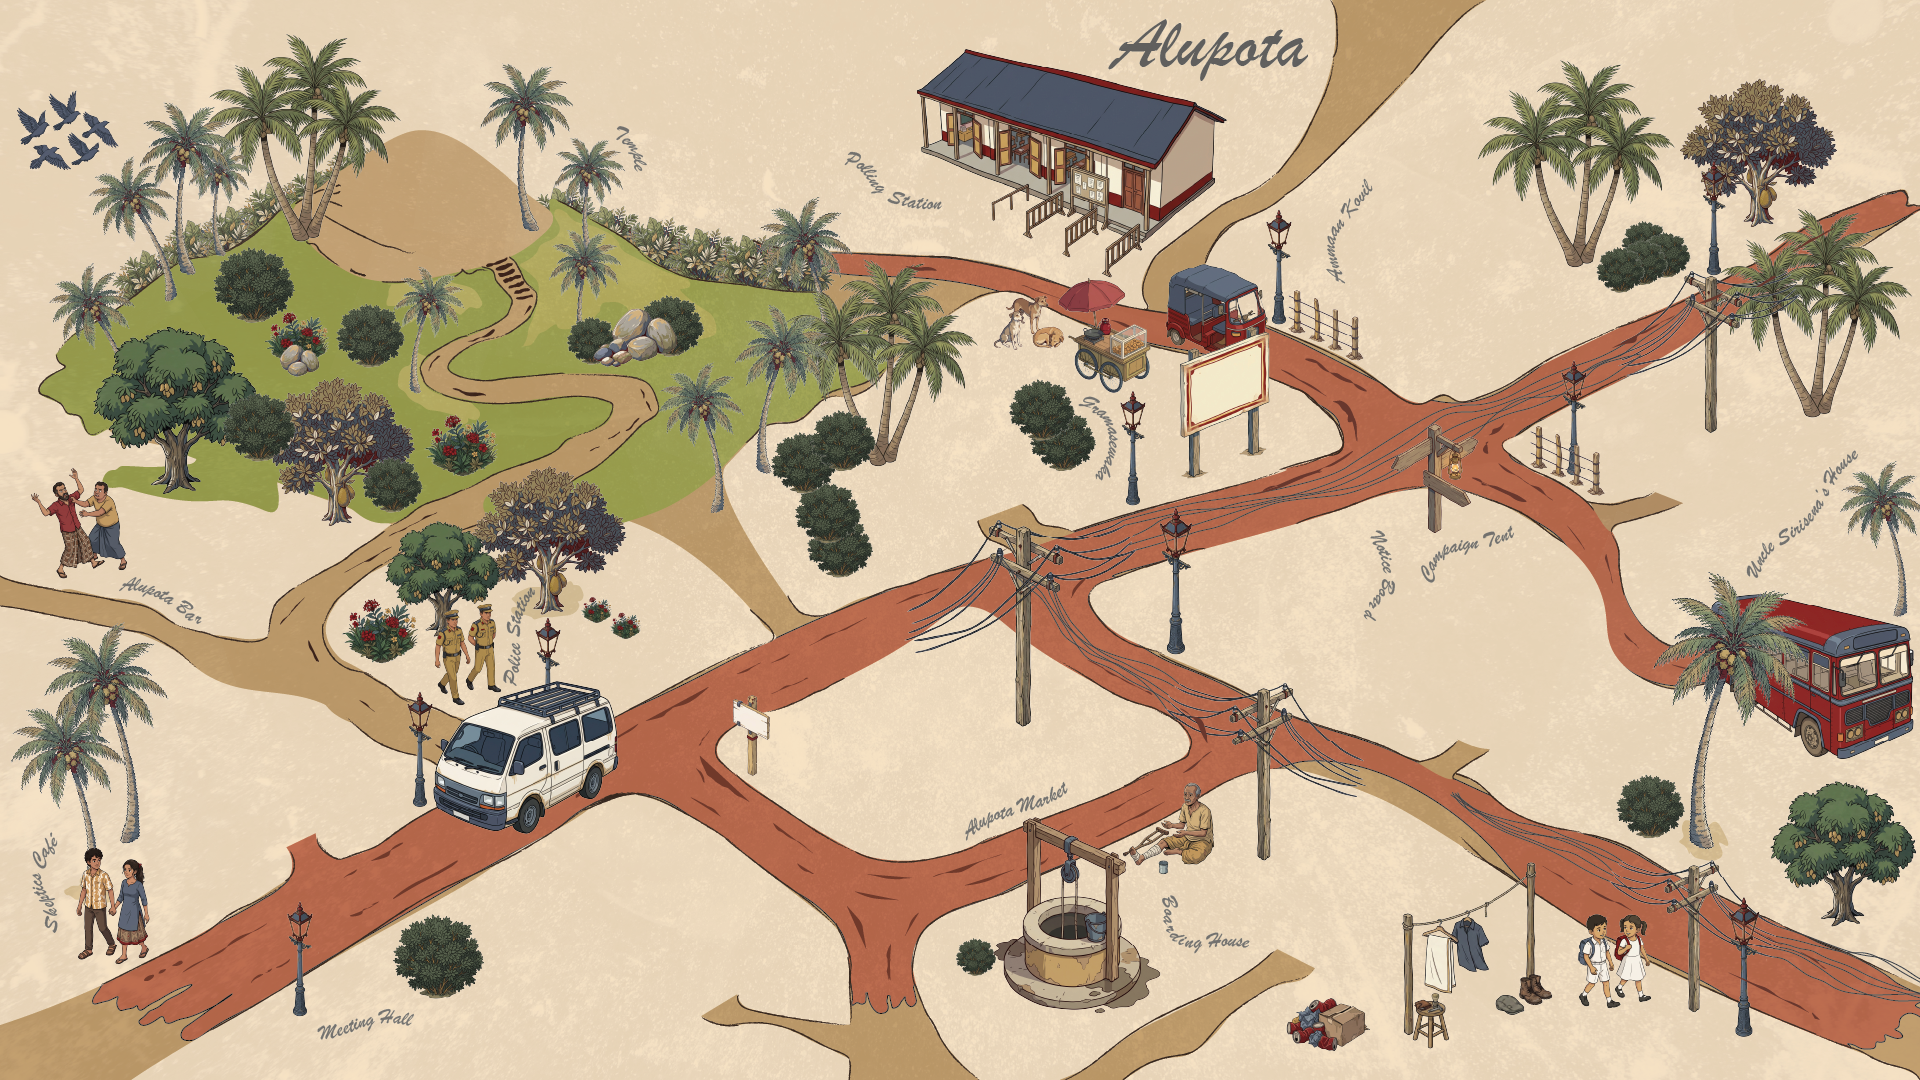
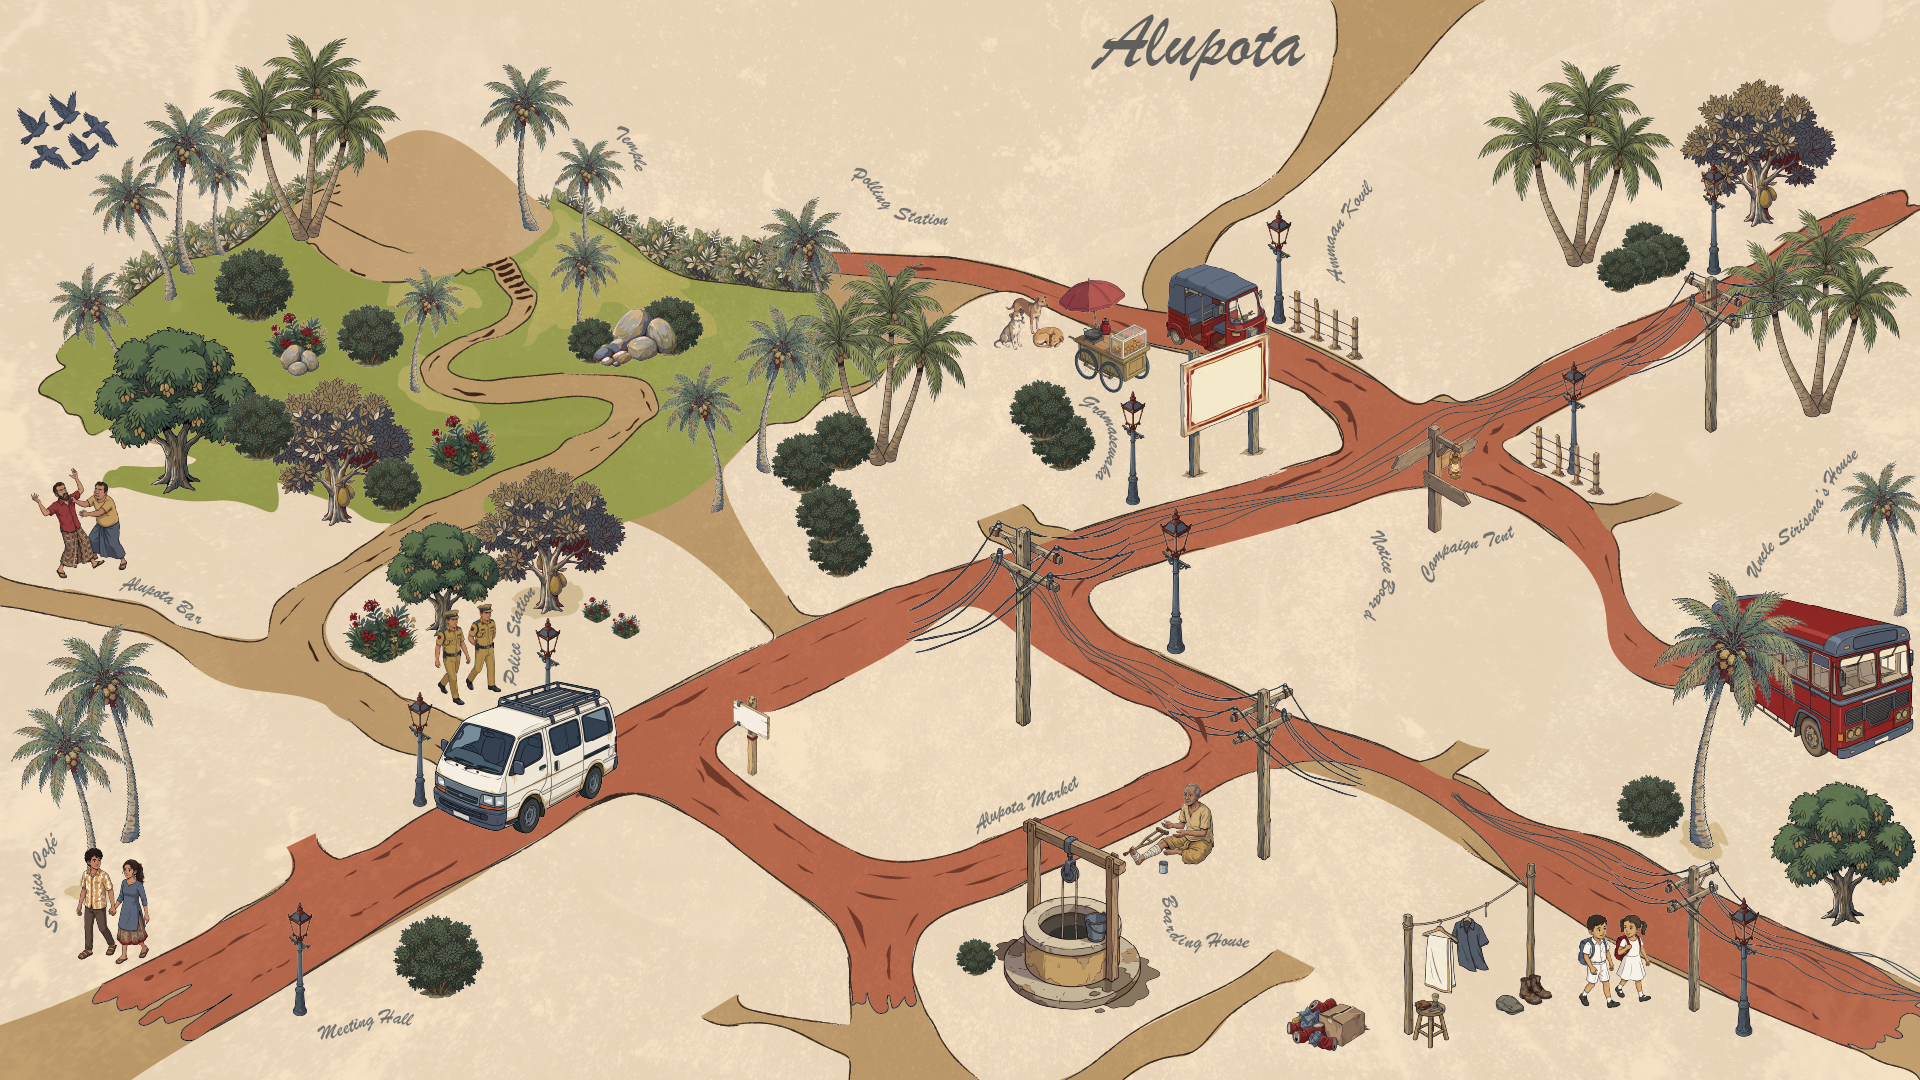
2.0.2

diff --git a/index.html b/index.html
@@ -137,71 +137,64 @@
                     <div class="credits-game-sub">A civic education game</div>
                 </div>
 
-                <!-- Direction -->
+<!-- Core Creator -->
                 <div class="credits-section">
-                    <div class="credits-role">Direction</div>
-                    <div class="credits-name">Chatura Dissanayake</div>
-                </div>
-
-                <!-- Game Design -->
-                <div class="credits-section">
-                    <div class="credits-role">Game Design</div>
+                    <div class="credits-role">Direction, Design &amp; Development</div>
                     <div class="credits-name">Chatura Dissanayake</div>
                 </div>
 
                 <!-- Writing -->
                 <div class="credits-section">
-                    <div class="credits-role">Writing</div>
+                    <div class="credits-role">Writing &amp; Narrative</div>
                     <div class="credits-name">Imalee Nillekumbura</div>
-                    <div class="credits-name">Chameera Dissanayake </div>
-                    <div class="credits-name">Chatura Dissanayake </div>
-                </div>
-
-                <!-- Development -->
-                <div class="credits-section">
-                    <div class="credits-role">Development</div>
                     <div class="credits-name">Chatura Dissanayake</div>
+                    <div class="credits-name-small">Anya Fernando (Narrative Consultant)</div>
                 </div>
 
-                <!-- Art Direction -->
+                <!-- Art -->
                 <div class="credits-section">
-                    <div class="credits-role">Art Direction</div>
+                    <div class="credits-role">Art &amp; Visual Design</div>
                     <div class="credits-name">Praveen Dissanayake</div>
                     <div class="credits-name">Chatura Dissanayake</div>
+                    <div class="credits-name-small">Ruwan Silva (Environment Assets)</div>
+                    <div class="credits-name-small">Sarah Perera (UI Illustration)</div>
                 </div>
 
-                <!-- Sound Design -->
+                <!-- Audio -->
                 <div class="credits-section">
-                    <div class="credits-role">Sound Design</div>
-                    <div class="credits-name">Chatura Dissanayake</div>
+                    <div class="credits-role">Audio &amp; Music</div>
+                    <div class="credits-name">Nathan Perera (Original Music)</div>
+                    <div class="credits-name">Chatura Dissanayake (Sound Design)</div>
+                    <div class="credits-name-small">Kavindu De Silva (Audio Mixing)</div>
                 </div>
 
-                <!-- Additional Art -->
+                <!-- Consultants -->
                 <div class="credits-section">
-                    <div class="credits-role">Additional Art</div>
-                    <div class="credits-name">Praveen Dissanayake</div>
+                    <div class="credits-role">Civic &amp; Cultural Consultants</div>
+                    <div class="credits-name">Mr. Wimal Dissanayake</div>
+                    <div class="credits-name">Mrs. Lakshmi Wilfred</div>
                 </div>
 
-                <!-- Music -->
+                <!-- Localization -->
                 <div class="credits-section">
-                    <div class="credits-role">Original Music</div>
-                    <div class="credits-name">Nathan Perera</div>
+                    <div class="credits-role">Localization</div>
+                    <div class="credits-name-small">Karthik Rajan (Tamil Translation)</div>
+                    <div class="credits-name-small">Kasun Peiris (Sinhala Translation)</div>
                 </div>
 
                 <!-- Voice -->
                 <div class="credits-section">
-                    <div class="credits-role">Voice</div>
-                    <div class="credits-name">Chamath De Silva</div>
-                    <div class="credits-name">Imalee Nillekumbura</div>
-                    <div class="credits-name">TBC</div>
+                    <div class="credits-role">Voice Cast</div>
+                    <div class="credits-name">TBC (Protagonists)</div>
+                    <div class="credits-name-small">Chamath De Silva (Uncle Sirisena - Prototype)</div>
                 </div>
 
                 <!-- Game Testing -->
                 <div class="credits-section">
-                    <div class="credits-role">Game Testing</div>
+                    <div class="credits-role">Quality Assurance</div>
                     <div class="credits-name">Praveen Dissanayake</div>
-                    <div class="credits-name">r/srilanka</div>
-                    <div class="credits-name">TBC</div>
+                    <div class="credits-name-small">Shenal Ratnayake (Lead QA)</div>
+                    <div class="credits-name-small">Sri Lanka Reddit Community Playtesters</div>
                 </div>
 
                 <!-- Tools -->
@@ -261,16 +254,6 @@
         <div class="modal-content" role="dialog" aria-labelledby="settings-title" aria-modal="true">
             <h2 id="settings-title">Settings</h2>
             <span class="modal-divider"></span>
-            <div class="setting-row">
-                <span class="setting-row-label" data-i18n="settings.textsize">Text Size</span>
-                <div class="game-select-wrapper">
-                    <select id="setting-textsize" class="game-select" onchange="updateSettings()">
-                        <option value="standard" data-i18n="settings.standard">Standard</option>
-                        <option value="large" data-i18n="settings.large">Large</option>
-                        <option value="xlarge" data-i18n="settings.xlarge">Extra Large</option>
-                    </select>
-                </div>
-            </div>
             <div class="setting-row">
                 <span class="setting-row-label" data-i18n="settings.motion">Reduce Motion</span>
                 <label class="game-switch">
@@ -344,7 +327,7 @@
     <!-- Screen 4: Character Selection -->
     <div id="screen-character" class="screen">
         <div class="screen-bg-container" id="bg-char-select"></div>
-        <button class="screen-back-btn" onclick="showScreen('screen-mainmenu')" aria-label="Close">
+        <button class="screen-back-btn" onclick="closeModal('modal-char-confirm'); showScreen('screen-mainmenu');" aria-label="Close">
             Menu
         </button>
         

diff --git a/style.css b/style.css
@@ -1016,15 +1016,13 @@ select:focus-visible {
 .clickable-card:hover {
     border-top-color: #D4AF37;
     border-color: rgba(212,175,55,0.4);
-    transform: translateY(-6px) scale(1.015);
     box-shadow: 0 28px 56px rgba(0,0,0,0.85), 0 0 48px rgba(212,175,55,0.22), inset 0 1px 0 rgba(212,175,55,0.08);
     background: #14171E;
 }
 .clickable-card:active {
-    transform: translateY(-2px) scale(0.985);
     box-shadow: 0 8px 20px rgba(0,0,0,0.6), 0 0 20px rgba(212,175,55,0.35);
     border-top-color: #F2D77E;
-    transition: transform 80ms ease, box-shadow 80ms ease;
+    transition: box-shadow 80ms ease;
 }
 @keyframes card-select-flash {
     0%   { box-shadow: 0 28px 56px rgba(0,0,0,0.85), 0 0 48px rgba(212,175,55,0.22); }
@@ -1117,7 +1115,6 @@ select:focus-visible {
 }
 .char-card:hover img {
     filter: grayscale(0%) brightness(1.05) contrast(1.04);
-    transform: scale(1.05);
 }
 
 .char-info {
@@ -3432,24 +3429,23 @@ html, body {
     background: var(--gold);
 }
 .ach-tile {
-    background: var(--panel-gradient);
-    border: 1px solid var(--border);
-    box-shadow: var(--panel-edge);
-    border-radius: var(--radius);
-    padding: 1rem 1.25rem;
+    background: transparent;
+    border: none;
+    border-bottom: 1px solid rgba(255,255,255,0.05);
+    border-radius: 0;
+    padding: 1.2rem 0;
     display: flex;
-    gap: 1rem;
+    gap: 1.2rem;
     align-items: flex-start;
-    transition: border-color 200ms, box-shadow 200ms, transform 200ms;
+    transition: all 200ms;
 }
 .ach-tile.earned {
-    border-color: rgba(212,175,55,0.35);
-    background: linear-gradient(165deg, rgba(212,175,55,0.08), rgba(212,175,55,0.015));
-    box-shadow: var(--panel-edge), 0 0 18px rgba(212,175,55,0.12);
+    background: transparent;
+    border-bottom: 1px solid rgba(212,175,55,0.3);
 }
 .ach-tile.hidden-tile {
-    border-style: dashed;
-    opacity: 0.45;
+    opacity: 0.35;
+    border-bottom: 1px dashed rgba(255,255,255,0.1);
 }
 .ach-tile-dot {
     width: 8px;

diff --git a/script.js b/script.js
@@ -575,6 +575,9 @@ window.openCredits = function() {
                         _creditsRaf = requestAnimationFrame(tick);
                     } else {
                         _creditsRaf = null;
+                        
+                        // Auto-close credits and return to menu after a short pause
+                        setTimeout(closeCredits, 2500);
                     }
                 }
 
